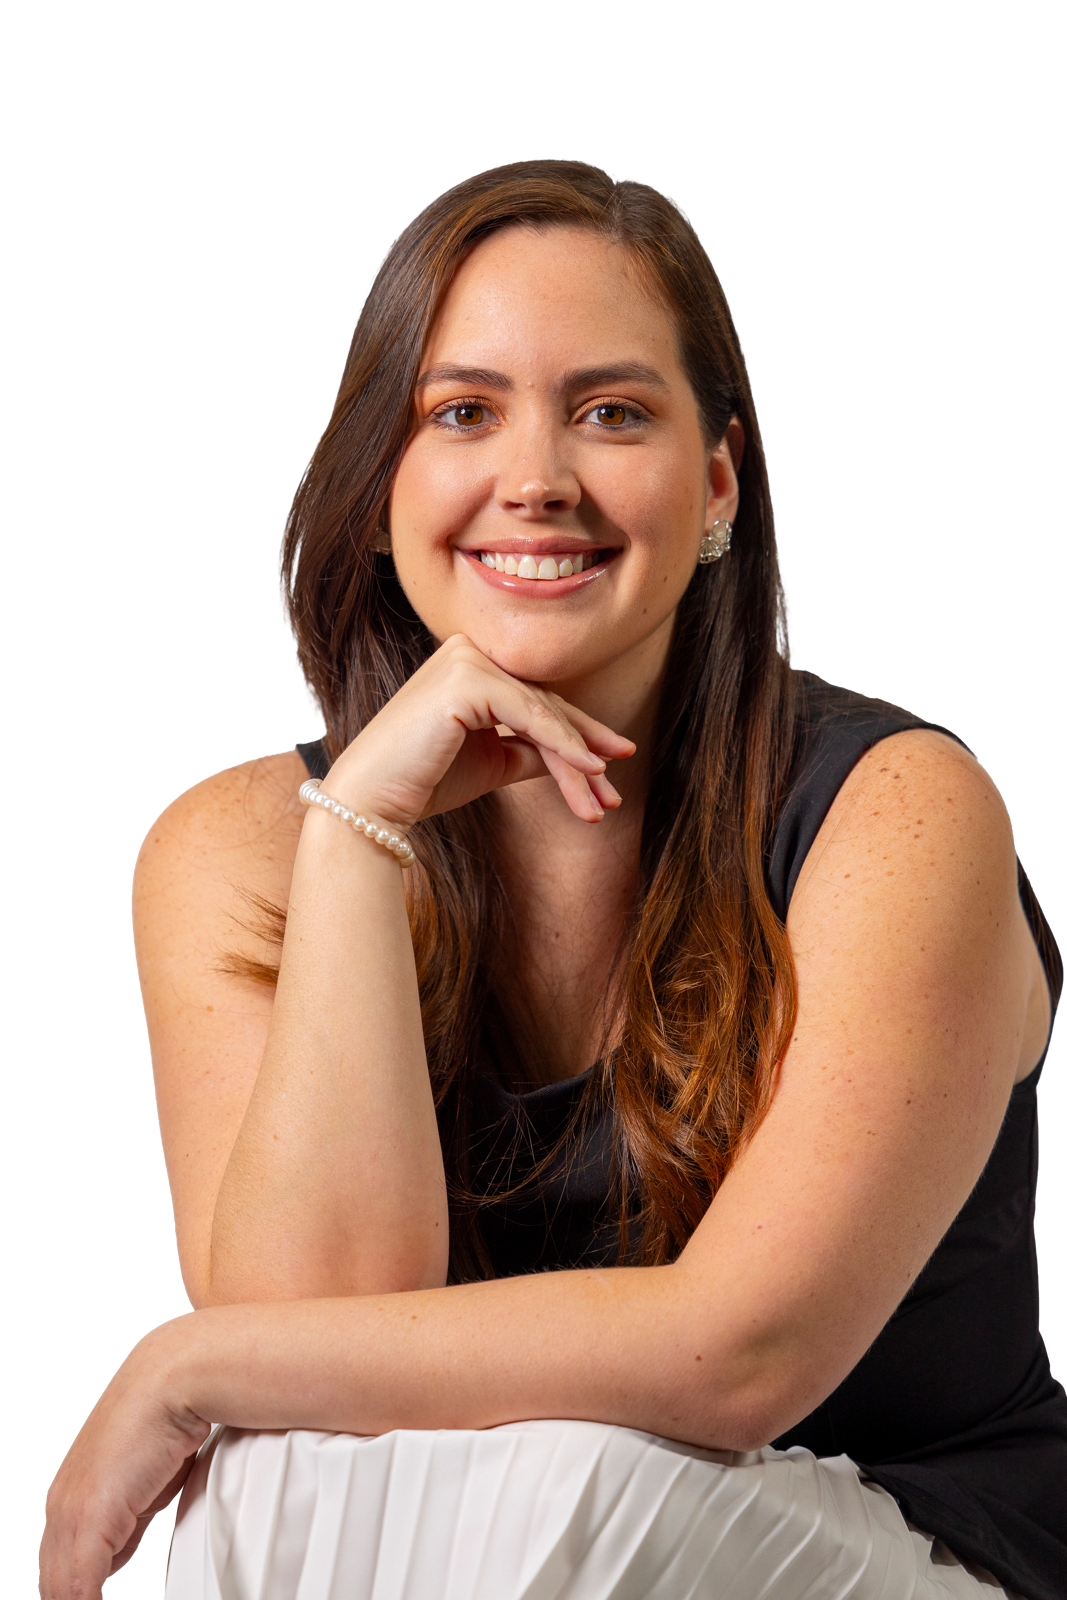
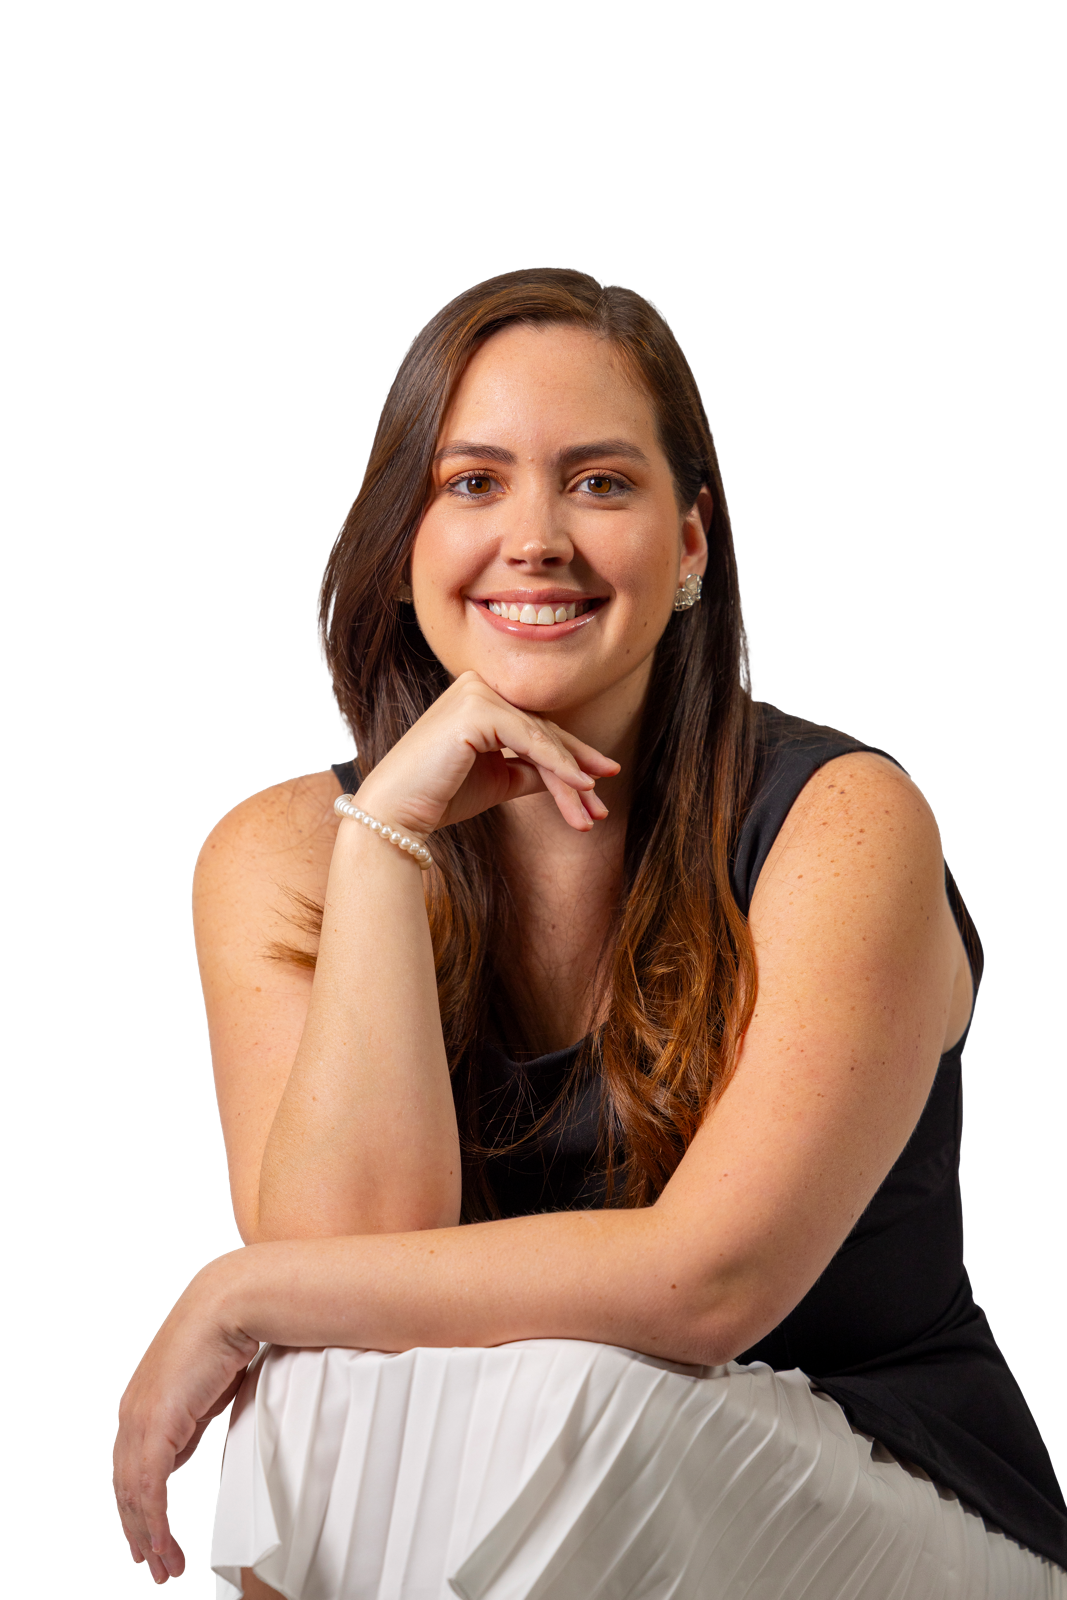
Hero: difuminado radial del fondo 50 (sin borde cortado) + foto de Marcela 15% mas pequena

diff --git a/index.html b/index.html
@@ -140,15 +140,9 @@
       background-repeat: no-repeat;
       opacity: 0.25;
       filter: blur(3px);
-      /* Difuminado en los 4 bordes para que la foto no se vea cortada (% = responsivo) */
-      -webkit-mask-image:
-        linear-gradient(to right, transparent 0%, rgba(0,0,0,1) 22%, rgba(0,0,0,1) 78%, transparent 100%),
-        linear-gradient(to bottom, transparent 0%, rgba(0,0,0,1) 30%, rgba(0,0,0,1) 70%, transparent 100%);
-      -webkit-mask-composite: source-in;
-      mask-image:
-        linear-gradient(to right, transparent 0%, rgba(0,0,0,1) 22%, rgba(0,0,0,1) 78%, transparent 100%),
-        linear-gradient(to bottom, transparent 0%, rgba(0,0,0,1) 30%, rgba(0,0,0,1) 70%, transparent 100%);
-      mask-composite: intersect;
+      /* Difuminado radial: la imagen se funde con el negro en todos los bordes (sin cortes) */
+      -webkit-mask-image: radial-gradient(ellipse 65% 60% at 50% 45%, #000 30%, transparent 78%);
+      mask-image: radial-gradient(ellipse 65% 60% at 50% 45%, #000 30%, transparent 78%);
     }
     /* Gradiente sobre la imagen para legibilidad */
     .hero-bg-overlay {
@@ -1593,4 +1587,9 @@
             <li><a href="#contacto">Contacto</a></li>
           </ul>
         </div>
-      
+        <div>
+          <p class="footer-col-title">Contacto</p>
+          <ul class="footer-links">
+            <li><a href="tel:+50322335000">+(503) 2233-5000</a></li>
+            <li><a href="mailto:info@lemusimuncorp.com">info@lemusimuncorp.com</a></li>
+            <li>Res. Arcos de Santa Elena,<br>Calle Apaneca #4C,<br>Antiguo Cuscatlán, El Salvador.</l
